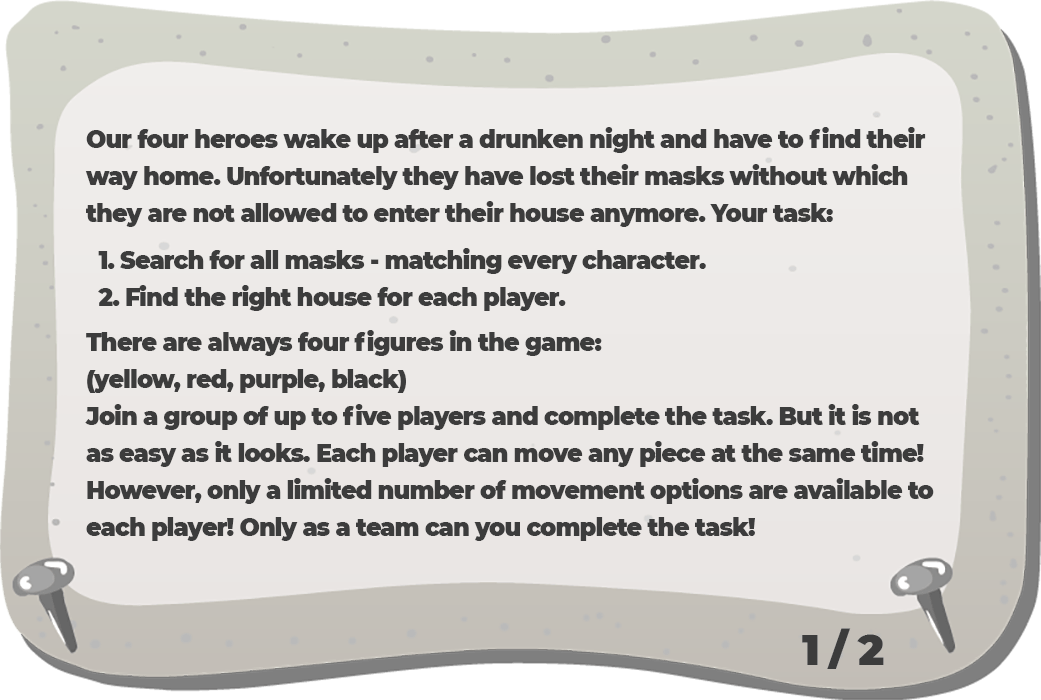
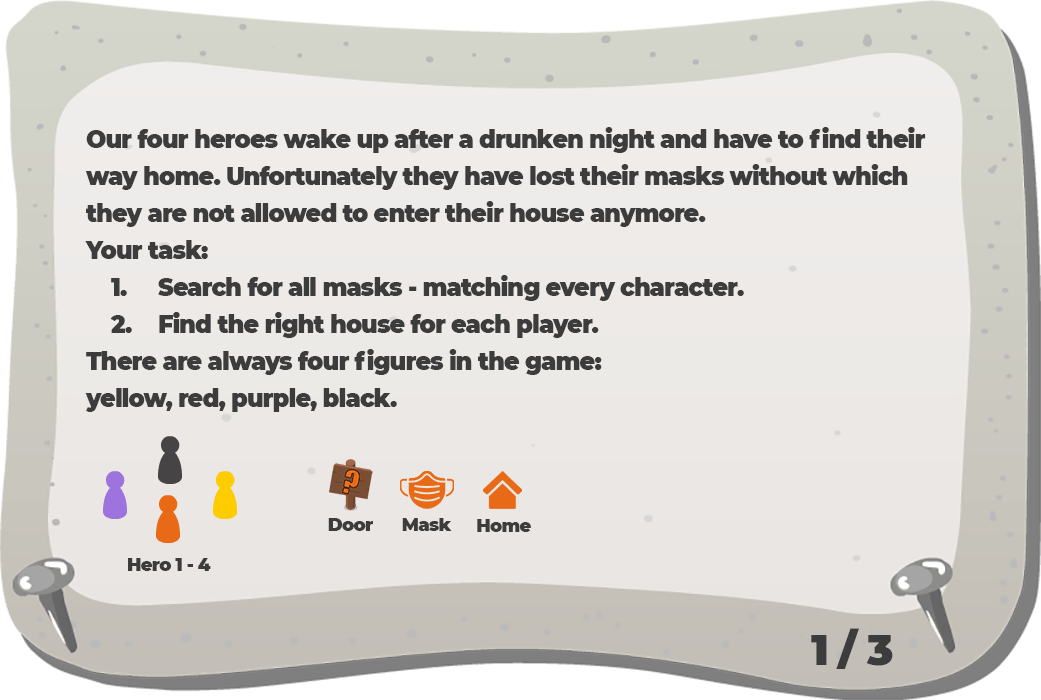
✨ Add new page to in-game FAQ

Changed region(s): [[0.0615, 0.33, 0.8915, 0.84], [0.7685, 0.9, 0.8607, 0.96], [0.6763, 0.27, 0.7992, 0.33]]

diff --git a/src/commonMain/kotlin/tfr/korge/jam/roguymaze/renderer/FaqComponent.kt b/src/commonMain/kotlin/tfr/korge/jam/roguymaze/renderer/FaqComponent.kt
@@ -34,12 +34,21 @@ class FaqComponent(val world: World, val rootView: Stage, res: Resources, val bu
         val page2 = image(res.helpPage2) {
             centerOn(rootView)
             visible = false
-            onClick {
-                this@FaqComponent.visible = false
-            }
+        }
+        val page3 = image(res.helpPage3) {
+            centerOn(rootView)
+            visible = false
         }
         page1.onClick {
+            page1.visible = false
             page2.visible = true
+        }
+        page2.onClick {
+            page2.visible = false
+            page3.visible = true
+        }
+        page3.onClick {
+            this@FaqComponent.visible = false
         }
 
         bus.register<OpenFaqEvent> {
@@ -47,6 +56,7 @@ class FaqComponent(val world: World, val rootView: Stage, res: Resources, val bu
                 visible = true
                 page1.visible = true
                 page2.visible = false
+                page3.visible = false
             } else {
                 visible = false
             }

diff --git a/src/commonMain/kotlin/tfr/korge/jam/roguymaze/lib/Resources.kt b/src/commonMain/kotlin/tfr/korge/jam/roguymaze/lib/Resources.kt
@@ -107,6 +107,7 @@ class Resources : AsyncDependency {
 
     lateinit var helpPage1: Bitmap
     lateinit var helpPage2: Bitmap
+    lateinit var helpPage3: Bitmap
 
 
     lateinit var uiMaskEmpty: Bitmap
@@ -180,6 +181,7 @@ class Resources : AsyncDependency {
 
         helpPage1 = loadImage("help_1.png")
         helpPage2 = loadImage("help_2.png")
+        helpPage3 = loadImage("help_3.png")
 
         player1 = loadImage("player_1.png")
         player2 = loadImage("player_2.png")
